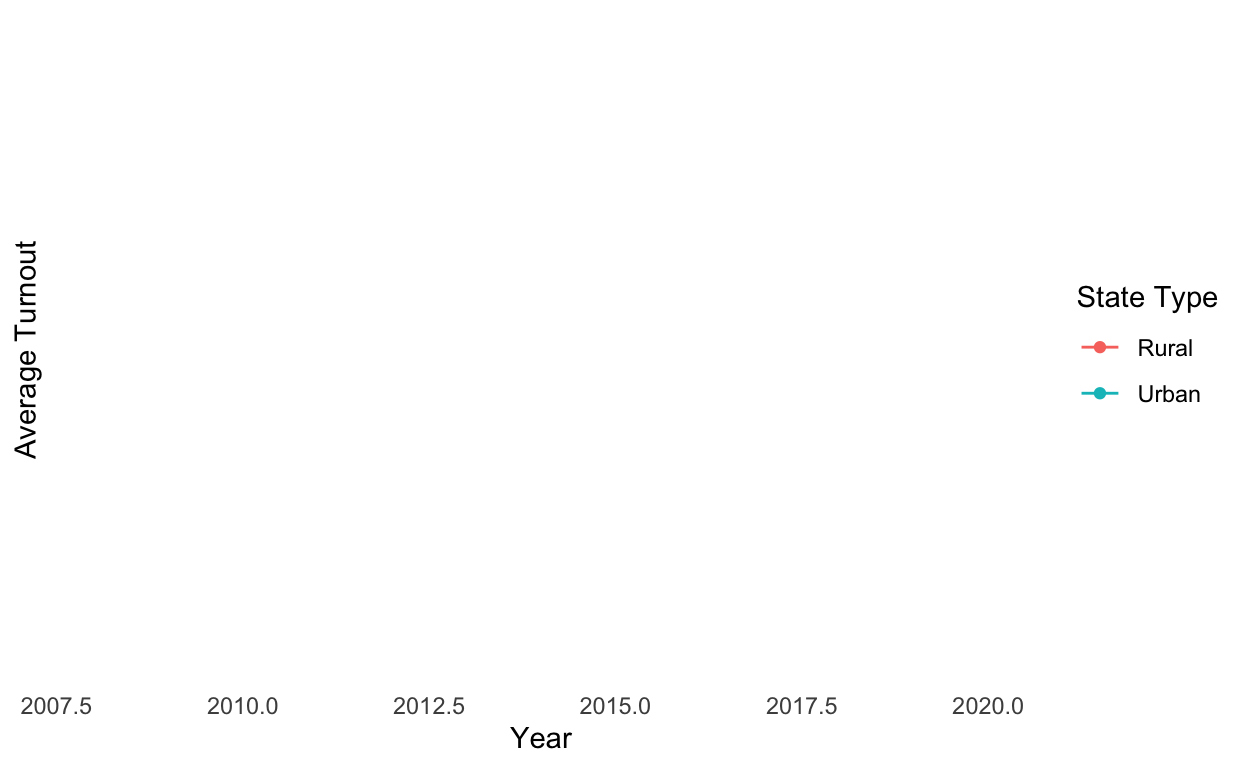
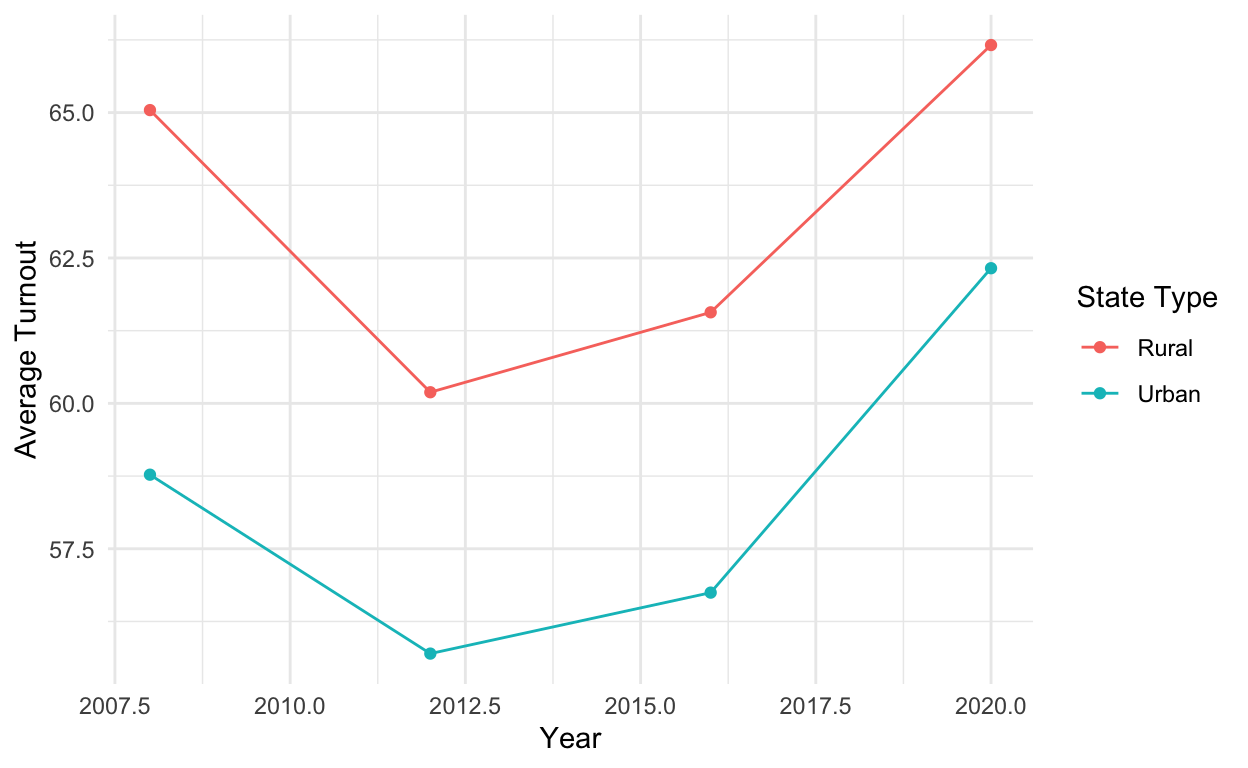
Fix again milestone 4

diff --git a/index.html b/index.html
@@ -1738,11 +1738,14 @@ code span.wa { color: #5e5e5e; font-style: italic; } /* Warning */
 <pre class="sourceCode r"><code class="sourceCode r"><span><span class='va'>turnout_recent</span> <span class='op'>&lt;-</span> <span class='va'>turnout_recent</span> <span class='op'>|&gt;</span></span>
 <span>  <span class='fu'><a href='https://dplyr.tidyverse.org/reference/mutate.html'>mutate</a></span><span class='op'>(</span>state_type <span class='op'>=</span> <span class='fu'><a href='https://rdrr.io/r/base/ifelse.html'>ifelse</a></span><span class='op'>(</span><span class='va'>STATE_ABV</span> <span class='op'><a href='https://rdrr.io/r/base/match.html'>%in%</a></span> <span class='fu'><a href='https://rdrr.io/r/base/c.html'>c</a></span><span class='op'>(</span><span class='st'>"WY"</span>,<span class='st'>"VT"</span>,<span class='st'>"ND"</span>,<span class='st'>"MT"</span>,<span class='st'>"SD"</span>,<span class='st'>"AK"</span>,<span class='st'>"NH"</span><span class='op'>)</span>, <span class='st'>"Rural"</span>, <span class='st'>"Urban"</span><span class='op'>)</span><span class='op'>)</span></span>
 <span></span>
+<span><span class='va'>turnout_recent</span> <span class='op'>&lt;-</span> <span class='va'>turnout_recent</span> <span class='op'>|&gt;</span></span>
+<span>  <span class='fu'><a href='https://dplyr.tidyverse.org/reference/mutate.html'>mutate</a></span><span class='op'>(</span>VAP_TURNOUT_RATE <span class='op'>=</span> <span class='fu'><a href='https://rdrr.io/r/base/numeric.html'>as.numeric</a></span><span class='op'>(</span><span class='fu'><a href='https://rdrr.io/r/base/grep.html'>gsub</a></span><span class='op'>(</span><span class='st'>"%"</span>, <span class='st'>""</span>, <span class='va'>VAP_TURNOUT_RATE</span><span class='op'>)</span><span class='op'>)</span><span class='op'>)</span></span>
+<span></span>
 <span><span class='va'>turnout_summary</span> <span class='op'>&lt;-</span> <span class='va'>turnout_recent</span> <span class='op'>|&gt;</span></span>
 <span>  <span class='fu'><a href='https://dplyr.tidyverse.org/reference/group_by.html'>group_by</a></span><span class='op'>(</span><span class='va'>YEAR</span>, <span class='va'>state_type</span><span class='op'>)</span> <span class='op'>|&gt;</span></span>
 <span>  <span class='fu'><a href='https://dplyr.tidyverse.org/reference/summarise.html'>summarize</a></span><span class='op'>(</span>AvgTurnout <span class='op'>=</span> <span class='fu'><a href='https://rdrr.io/r/base/mean.html'>mean</a></span><span class='op'>(</span><span class='fu'><a href='https://rdrr.io/r/base/numeric.html'>as.numeric</a></span><span class='op'>(</span><span class='va'>VAP_TURNOUT_RATE</span><span class='op'>)</span>, na.rm <span class='op'>=</span> <span class='cn'>TRUE</span><span class='op'>)</span>, .groups <span class='op'>=</span> <span class='st'>"drop"</span><span class='op'>)</span></span>
 <span></span>
-<span><span class='fu'><a href='https://ggplot2.tidyverse.org/reference/ggplot.html'>ggplot</a></span><span class='op'>(</span><span class='va'>turnout_summary</span>, <span class='fu'><a href='https://ggplot2.tidyverse.org/reference/aes.html'>aes</a></span><span class='op'>(</span>x <span class='op'>=</span> <span class='fu'><a href='https://rdrr.io/r/base/numeric.html'>as.numeric</a></span><span class='op'>(</span><span class='va'>YEAR</span><span class='op'>)</span>, y <span class='op'>=</span> <span class='va'>AvgTurnout</span>, color <span class='op'>=</span> <span class='va'>state_type</span><span class='op'>)</span><span class='op'>)</span> <span class='op'>+</span></span>
+<span><span class='fu'><a href='https://ggplot2.tidyverse.org/reference/ggplot.html'>ggplot</a></span><span class='op'>(</span><span class='va'>turnout_summary</span>, <span class='fu'><a href='https://ggplot2.tidyverse.org/reference/aes.html'>aes</a></span><span class='op'>(</span>x <span class='op'>=</span> <span class='fu'><a href='https://rdrr.io/r/base/numeric.html'>as.numeric</a></span><span class='op'>(</span><span class='va'>YEAR</span><span class='op'>)</span>, y <span class='op'>=</span> <span class='va'>AvgTurnout</span>, color <span class='op'>=</span> <span class='va'>state_type</span>, group <span class='op'>=</span> <span class='va'>state_type</span><span class='op'>)</span><span class='op'>)</span> <span class='op'>+</span></span>
 <span>  <span class='fu'><a href='https://ggplot2.tidyverse.org/reference/geom_path.html'>geom_line</a></span><span class='op'>(</span><span class='op'>)</span> <span class='op'>+</span> <span class='fu'><a href='https://ggplot2.tidyverse.org/reference/geom_point.html'>geom_point</a></span><span class='op'>(</span><span class='op'>)</span> <span class='op'>+</span></span>
 <span>  <span class='fu'><a href='https://ggplot2.tidyverse.org/reference/ggtheme.html'>theme_minimal</a></span><span class='op'>(</span><span class='op'>)</span> <span class='op'>+</span></span>
 <span>  <span class='fu'><a href='https://ggplot2.tidyverse.org/reference/labs.html'>labs</a></span><span class='op'>(</span>y <span class='op'>=</span> <span class='st'>"Average Turnout"</span>, x <span class='op'>=</span> <span class='st'>"Year"</span>, color <span class='op'>=</span> <span class='st'>"State Type"</span><span class='op'>)</span></span></code></pre>
@@ -1750,7 +1753,36 @@ code span.wa { color: #5e5e5e; font-style: italic; } /* Warning */
 <p><img src="index_files/figure-html5/unnamed-chunk-9-1.png" alt="" width="624" /></p>
 </div>
 <p>The above visualization shows the turnout rates overtime between rural and urban states. This chart disproves my initial hypothesis because it shows a higher turnout in rural states than urban states, meaning that a state being rural does not correspond with having lower voting turnout rates.</p>
-<div class="sourceCode" id="cb7"><pre class="sourceCode r distill-force-highlighting-css"><code class="sourceCode r"></code></pre></div>
+<div class="layout-chunk" data-layout="l-body">
+<div class="sourceCode">
+<pre class="sourceCode r"><code class="sourceCode r"><span><span class='fu'><a href='https://rdrr.io/r/base/class.html'>class</a></span><span class='op'>(</span><span class='va'>turnout_recent</span><span class='op'>$</span><span class='va'>VAP_TURNOUT_RATE</span><span class='op'>)</span></span></code></pre>
+</div>
+<pre><code>[1] &quot;numeric&quot;</code></pre>
+<div class="sourceCode">
+<pre class="sourceCode r"><code class="sourceCode r"><span><span class='fu'><a href='https://rdrr.io/r/base/unique.html'>unique</a></span><span class='op'>(</span><span class='va'>turnout_recent</span><span class='op'>$</span><span class='va'>VAP_TURNOUT_RATE</span><span class='op'>)</span></span></code></pre>
+</div>
+<pre><code>  [1] 61.62 59.01 64.95 60.30 52.46 58.33 71.97 64.45 63.81 63.60
+ [11] 63.35 60.65 50.61 60.86 61.04 58.56 68.84 61.33 61.47 61.07
+ [21] 73.44 63.63 64.87 70.56 74.70 58.49 63.04 70.06 65.13 57.33
+ [31] 71.89 63.84 56.28 55.04 66.94 61.24 65.05 51.46 70.89 67.15
+ [41] 58.67 61.97 62.99 56.34 51.22 63.10 69.85 66.66 67.71 56.11
+ [51] 71.63 62.15 55.51 56.59 57.94 49.77 49.73 48.49 66.47 59.27
+ [61] 59.51 55.29 57.95 53.19 39.05 56.57 57.31 55.35 65.78 55.79
+ [71] 56.99 57.51 71.52 60.19 61.95 62.77 69.96 53.31 59.70 63.34
+ [81] 59.97 49.79 69.79 57.32 50.23 50.32 60.38 60.35 62.11 49.31
+ [91] 63.59 61.53 55.32 54.71 58.20 49.30 43.32 53.87 60.95 59.07
+[101] 50.35 66.61 57.99 54.09 56.21 55.43 46.81 48.06 45.73 65.22
+[111] 55.65 55.41 55.56 52.67 40.05 56.83 53.66 53.70 67.47 54.70
+[121] 53.81 57.63 68.13 60.05 60.33 62.60 71.78 57.25 61.39 62.78
+[131] 57.69 48.44 68.43 53.96 49.88 46.49 60.56 59.33 63.32 46.54
+[141] 59.75 57.62 53.88 54.20 58.44 49.84 41.62 52.05 60.14 61.28
+[151] 59.54 69.91 56.79 57.44 64.48 49.66 50.39 50.14 65.31    NA
+[161] 60.77 55.37 58.07 44.02 59.71 58.01 58.14 67.16 60.20 56.71
+[171] 59.24 70.91 61.29 61.35 66.93 73.47 65.45 65.87 60.23 70.43
+[181] 58.79 55.34 51.90 61.36 62.63 65.93 53.23 63.27 61.87 57.57
+[191] 55.48 64.30 54.87 52.78 66.34 62.32 61.03 50.36 69.59 61.25</code></pre>
+</div>
+<div class="sourceCode" id="cb9"><pre class="sourceCode r distill-force-highlighting-css"><code class="sourceCode r"></code></pre></div>
 <!--radix_placeholder_article_footer-->
 <!--/radix_placeholder_article_footer-->
 </div>
